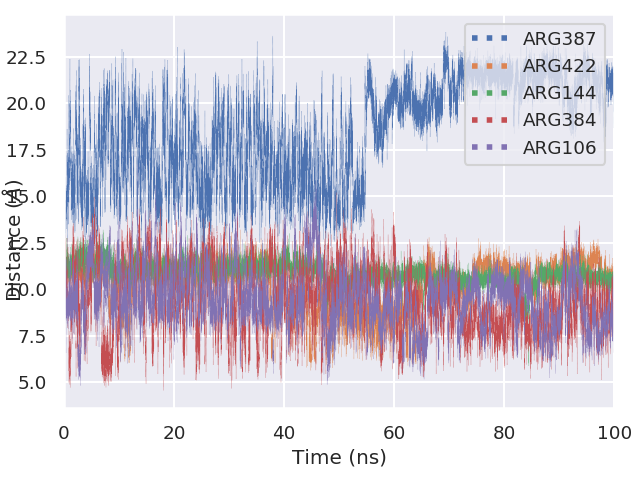
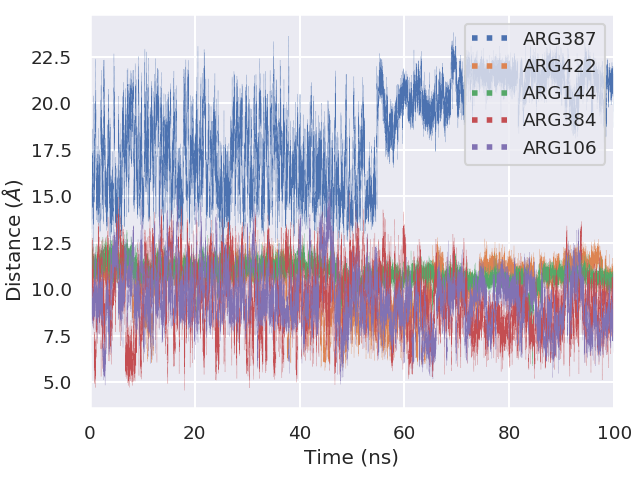
Updated distance figures

diff --git a/MD/base_id.py b/MD/base_id.py
@@ -22,7 +22,7 @@ CURR_DIR = os.getcwd()
 
 if __name__ == "__main__":
 
-    sort_dict, dist_thresh, inhibitor, system_type, num_subplots = False, 10, 3, "noncov_H", 6
+    sort_dict, dist_thresh, inhibitor, system_type, num_subplots = False, 10, 1, "cov", 6
 
     for i in [1, 2]:
 
@@ -100,7 +100,7 @@ if __name__ == "__main__":
         # fig, axes = plt.subplots(nrows=num_row, ncols=2, sharex=True, sharey=True, figsize=(PLOTS_WIDTH, PLOTS_HEIGHT))
         fig = plt.figure()
         # fig.subplots_adjust(top=0.98, bottom=0.12, left=0.09, right=0.97, wspace=0.15, hspace=0.15)
-        fig.subplots_adjust(top=0.97, bottom=0.15, left=0.1, right=0.96, wspace=0.15, hspace=0.15)
+        fig.subplots_adjust(top=0.97, bottom=0.15, left=0.14, right=0.96, wspace=0.15, hspace=0.15)
         # fig.suptitle(r"Distance of Charged Residues of Interest from {0} H".format(target_H), horizontalalignment='center',
         #              fontsize=14, weight='bold')
         # fig.text(0.5, 0.02, "Time (ns)", va='center', ha='center')
